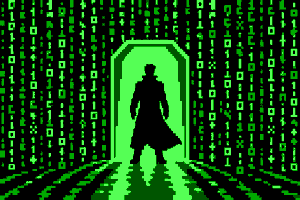
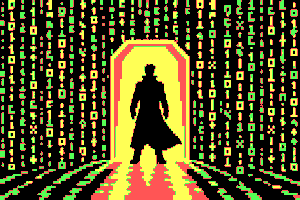
Use standard CGA colors for the digital-rain demo

diff --git a/web/app.js b/web/app.js
@@ -4,7 +4,7 @@ const $=id=>document.getElementById(id);
 let entries=[],selected=-1,generation=0;
 const colorNames=['Black','Blue','Green','Cyan','Red','Magenta','Brown','Light gray','Dark gray','Light blue','Light green','Light cyan','Light red','Light magenta','Yellow','White'];
 colorNames.forEach((n,i)=>$('background').add(new Option(n,String(i))));
-function palette(){return $('mode').value==='green'?EV_DEMO.palette:$('mode').value==='gray'?ExecuVision.grayscalePalette():ExecuVision.cgaPalette(+$('background').value,+$('family').value,+$('intensity').checked)}
+function palette(){return $('mode').value==='gray'?ExecuVision.grayscalePalette():ExecuVision.cgaPalette(+$('background').value,+$('family').value,+$('intensity').checked)}
 function showStatus(s){$('status').textContent=s}
 function updatePalette(){
  const p=palette();$('paletteValues').textContent=p.map((rgb,i)=>`${i}: #${rgb.map(v=>v.toString(16).padStart(2,'0')).join('')}`).join('  /  ');$('swatches').replaceChildren();
@@ -131,14 +131,14 @@ $('cancelImport').onclick=()=>{generation++;if(typeof EVSevenZip!=='undefined')E
 function downloadText(name,text,type='text/plain'){const url=URL.createObjectURL(new Blob([text],{type})),a=document.createElement('a');a.href=url;a.download=name;document.body.append(a);a.click();a.remove();setTimeout(()=>URL.revokeObjectURL(url),1000)}
 $('saveErrors').onclick=()=>downloadText('execuvision-import-warnings.txt',Array.from($('errorList').children).map(e=>e.textContent).join('\n'));
 $('saveMetadata').onclick=()=>{if(selected<0)return;const e=entries[selected];downloadText(e.name+'.json',JSON.stringify({title:e.title||e.name,file:e.name,source:e.source,width:e.image.width,height:e.image.height,kind:e.image.kind===1?'SLIDE':'PIX',palette:palette(),paletteStatus:'User-selected colors; may differ from original colors'},null,2),'application/json')};
-function exportFilename(){if(selected<0)return '';const e=entries[selected];const title=(e.title||'').replace(/[^a-zA-Z0-9_-]+/g,'-').replace(/^-|-$/g,'').slice(0,60);return (title?title+'-':'')+e.name.replace(/[^a-zA-Z0-9._-]/g,'_').replace(/\.ev$/i,'')+'-'+($('mode').value==='gray'?'grayscale':$('mode').value==='green'?'green':'cga')+'-crisp.png'}
+function exportFilename(){if(selected<0)return '';const e=entries[selected];const title=(e.title||'').replace(/[^a-zA-Z0-9_-]+/g,'-').replace(/^-|-$/g,'').slice(0,60);return (title?title+'-':'')+e.name.replace(/[^a-zA-Z0-9._-]/g,'_').replace(/\.ev$/i,'')+'-'+($('mode').value==='gray'?'grayscale':'cga')+'-crisp.png'}
 function demoBytes(){return Uint8Array.from(atob(EV_DEMO.base64),c=>c.charCodeAt(0))}
 $('loadDemo').onclick=async()=>{
  const bytes=demoBytes(),expected=generation+1;
  await loadFiles([{name:EV_DEMO.name,size:bytes.length,arrayBuffer:async()=>bytes.buffer}]);
  if(generation!==expected||!entries.length)return;
  entries[0].title=EV_DEMO.title;entries[0].source='Built-in demo';
- $('mode').value='green';$('zoom').value='fit';$('aspect').checked=false;
+ $('mode').value='cga';$('background').value='0';$('family').value='0';$('intensity').checked=true;$('zoom').value='fit';$('aspect').checked=false;
  rebuildList();updatePalette();showStatus('Demo loaded. Try palettes and zoom, or save a PNG.');
 };
 $('saveDemo').onclick=()=>downloadText(EV_DEMO.name,demoBytes(),'application/octet-stream');

diff --git a/tests/test_site.js b/tests/test_site.js
@@ -20,8 +20,9 @@ const file=name=>({name,size:61,arrayBuffer:async()=>fixture().buffer});
  els.clear.onclick();assert.equal(els.download.disabled,true);assert.equal(els.fileList.children.length,0);
  let resolve;const pending=context.loadFiles([{name:'later.EV',size:61,arrayBuffer:()=>new Promise(r=>resolve=r)}]);els.cancelImport.onclick();resolve(fixture().buffer);await pending;assert.equal(els.fileList.children.length,0);
  await context.loadFiles([{name:'bad.EV',size:2,arrayBuffer:async()=>new ArrayBuffer(2)},file('PIX001.EV')]);assert.equal(els.fileList.children.length,1);assert.equal(els.errorList.children.length,1);
- await els.loadDemo.onclick();assert.equal(els.canvas.width,300);assert.equal(els.canvas.height,200);assert.equal(els.mode.value,'green');assert.equal(els.background.disabled,true);assert.equal(els.pictureName.textContent,'DIGITAL RAIN');
+ els.mode.value='gray';els.background.value='1';els.family.value='1';els.intensity.checked=false;
+ await els.loadDemo.onclick();assert.equal(els.canvas.width,300);assert.equal(els.canvas.height,200);assert.equal(els.mode.value,'cga');assert.equal(els.background.disabled,false);assert.equal(els.family.disabled,false);assert.equal(els.intensity.disabled,false);assert.equal(els.background.value,'0');assert.equal(els.family.value,'0');assert.equal(els.intensity.checked,true);assert.equal(els.pictureName.textContent,'DIGITAL RAIN');
  const demo=api.decodeEV(new Uint8Array(fs.readFileSync(path.join(root,'assets/demo/MATRIX.EV'))));assert.deepEqual(els.canvas.rgba,api.rgba(demo,JSON.parse(fs.readFileSync(path.join(root,'assets/demo/matrix.json'))).palette));
- els.download.onclick();assert.match(context.document.body.children.at(-1).download,/-green-crisp.png$/);els.saveDemo.onclick();assert.equal(context.document.body.children.at(-1).download,'MATRIX.EV');
+ els.download.onclick();assert.match(context.document.body.children.at(-1).download,/-cga-crisp.png$/);els.saveDemo.onclick();assert.equal(context.document.body.children.at(-1).download,'MATRIX.EV');
  console.log('Synthetic controller import, search, favorites, navigation, palette, zoom, export, cancel and error tests passed.');
 })().catch(e=>{console.error(e);process.exit(1)});

diff --git a/web/index.html b/web/index.html
@@ -83,7 +83,7 @@
 
     <section class="palette-panel" aria-label="Color and export controls">
       <div class="palette-title"><span class="eyebrow">04 / COLOR CONTROL</span><h2>CHOOSE COLORS</h2><p>Apply a palette to the preview and PNG export.</p></div>
-      <div class="control"><label for="mode">COLOR MODE</label><select id="mode"><option value="cga">CGA color</option><option value="gray">Grayscale</option><option value="green">Digital green</option></select></div>
+      <div class="control"><label for="mode">COLOR MODE</label><select id="mode"><option value="cga">CGA color</option><option value="gray">Grayscale</option></select></div>
       <div class="control"><label for="background">BACKGROUND COLOR</label><select id="background"></select></div>
       <div class="control"><label for="family">FOREGROUND COLORS</label><select id="family"><option value="0">Green · red · brown</option><option value="1" selected>Cyan · magenta · gray</option></select><label class="check"><input id="intensity" type="checkbox" checked> High intensity</label></div>
       <div class="export"><div id="swatches" class="swatches" aria-label="Current four colors"></div><button id="download" class="button primary" disabled>SAVE PNG <span aria-hidden="true">↓</span></button><small id="exportNote">PNG at original pixel dimensions</small></div>

diff --git a/assets/demo/README.md b/assets/demo/README.md
@@ -7,16 +7,21 @@ pixels and four colors. `MATRIX.EV` and `matrix.png` contain identical pixel ind
 - `matrix.png`: the matching four-color indexed PNG preview.
 - `matrix.json`: palette, dimensions, provenance description, and decoded-pixel hash.
 
-Palette: `#000000`, `#005500`, `#00aa00`, `#55ff55`.
-EV files contain pixel indices; select **Digital green** in Picture Command to
-reproduce these colors. The built-in Load demo action selects this palette.
+CGA palette 0, high intensity, black background: `#000000`, `#55ff55`,
+`#ff5555`, `#ffff55`. EV files contain pixel indices; choose the **Green / red**
+preset in Picture Command to reproduce these colors. Load demo selects these
+standard CGA settings automatically.
 The EV has been verified in Picture Command; compatibility with the original
 ExecuVision application has not been tested.
 
-The image was generated with the built-in image-generation tool, then resized
-and quantized to this fixed palette. The encoder in `tools/encode_ev.mjs` writes
+The image was generated with the built-in image-generation tool, resized to
+300 × 200, quantized to four tones, then mapped to standard CGA colors in luminance order
+(black, light red, light green, yellow). The encoder in `tools/encode_ev.mjs` writes
 the indexed raster without relying on undocumented compressed-run behavior.
 
-## Generation prompt
+## Original generation prompt
+
+The source was generated in green tones; the final demo is converted to CGA as
+described above.
 
 Use case: stylized-concept. Asset type: original demo artwork for a retro 2-bit graphics viewer, intended final resolution exactly 300 by 200 pixels, landscape 3:2. Create a Matrix-inspired digital-rain scene: dense vertical columns of small green computer-code glyphs on deep black, a mysterious lone black silhouette wearing a long coat centered within the falling code, an angular luminous doorway framing the silhouette. Strong readable composition at very low resolution. Flat crisp pixel-art clusters, large clear shapes, restrained dithering, hard edges. Use only four tones: black #000000, dark green #005500, green #00aa00, bright green #55ff55. Full-bleed image; no UI, no border, no titles, no Matrix logo, no watermarks. Avoid photorealism, soft glow, gradients, blur, scanlines, and fine detail that disappears at 300x200. Generate at 3:2 aspect ratio; designed for downsampling to exactly 300x200.

diff --git a/web/README.md b/web/README.md
@@ -8,9 +8,9 @@ modular version, keep the files in `web/` together.
 
 ## Try the demo
 
-**Load demo** opens a built-in 300 × 200 digital-rain image with its green palette.
+**Load demo** opens a built-in 300 × 200 digital-rain image in CGA palette 0 (high intensity, black background).
 It replaces the current collection. **Download demo .EV** saves the demo file;
-select **Digital green** when opening that file manually. Try different palettes,
+use the **Green / red** preset when opening that file manually. Try different palettes,
 zoom, or PNG export without supplying your own graphics.
 
 ## Open graphics
@@ -40,7 +40,7 @@ Escape clears the search, and Tab moves between controls.
 
 ## Choose colors and export
 
-Choose CGA colors, grayscale, or Digital green. In CGA mode, select a background color,
+Choose CGA colors or grayscale. In CGA mode, select a background color,
 foreground colors, and intensity. **Palette presets & color values** offers
 ready-made palettes, a reset button, and exact hexadecimal color values.
 The selected palette may differ from the original colors.

diff --git a/README.md b/README.md
@@ -21,13 +21,13 @@ An original AI-generated demo is included. No historical sample archives or disk
 ## Try the demo
 
 Choose **Load demo** in the app to open a Matrix-inspired digital-rain graphic at
-300 × 200 pixels. It uses four green tones and is embedded in the offline build.
+300 × 200 pixels. It uses CGA palette 0 (high intensity, black background) and is embedded in the offline build.
 
 [Download the .EV demo](https://unamanic.github.io/execuvision-picture-command/demo/MATRIX.EV)
 · [PNG preview](assets/demo/matrix.png)
 
-The EV file stores pixel indices; select **Digital green** after importing it
-manually to reproduce the green colors. Other palettes also work.
+The EV file stores pixel indices; choose the **Green / red** palette preset after
+importing it manually to reproduce the demo colors.
 
 ## Use locally
 
